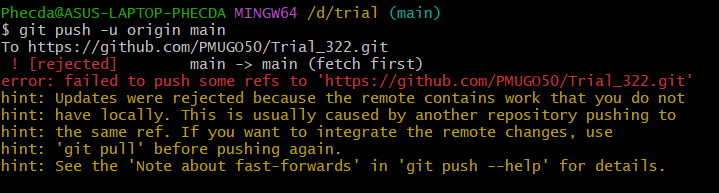
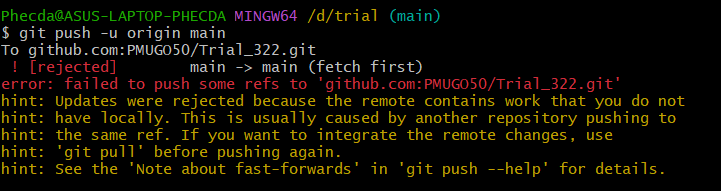
Site updated: 2024-03-23 16:38:50

Changed region(s): [[0.0, 0.0262, 0.9791, 0.9162]]

diff --git a/2024/03/22/githubset/index.html b/2024/03/22/githubset/index.html
@@ -40,7 +40,7 @@
 <meta property="og:image" content="https://pmugo50.github.io/2024/03/22/githubset/BASH_3.png">
 <meta property="og:image" content="https://pmugo50.github.io/2024/03/22/githubset/REPOS_AFTER.png">
 <meta property="article:published_time" content="2024-03-22T08:58:26.000Z">
-<meta property="article:modified_time" content="2024-03-22T10:58:29.921Z">
+<meta property="article:modified_time" content="2024-03-23T08:38:00.304Z">
 <meta property="article:author" content="PMUG050">
 <meta name="twitter:card" content="summary">
 <meta name="twitter:image" content="https://pmugo50.github.io/2024/03/22/githubset/RIGHT_SIDE_BAR.png">
@@ -195,10 +195,16 @@
                 <i class="far fa-calendar"></i>
               </span>
               <span class="post-meta-item-text">发表于</span>
-              
 
-              <time title="创建时间：2024-03-22 16:58:26 / 修改时间：18:58:29" itemprop="dateCreated datePublished" datetime="2024-03-22T16:58:26+08:00">2024-03-22</time>
+              <time title="创建时间：2024-03-22 16:58:26" itemprop="dateCreated datePublished" datetime="2024-03-22T16:58:26+08:00">2024-03-22</time>
             </span>
+              <span class="post-meta-item">
+                <span class="post-meta-item-icon">
+                  <i class="far fa-calendar-check"></i>
+                </span>
+                <span class="post-meta-item-text">更新于</span>
+                <time title="修改时间：2024-03-23 16:38:00" itemprop="dateModified" datetime="2024-03-23T16:38:00+08:00">2024-03-23</time>
+              </span>
             <span class="post-meta-item">
               <span class="post-meta-item-icon">
                 <i class="far fa-folder"></i>
@@ -247,14 +253,19 @@
 <figure class="highlight plaintext"><table><tr><td class="gutter"><pre><span class="line">1</span><br></pre></td><td class="code"><pre><span class="line">git init</span><br></pre></td></tr></table></figure>
 <p>初始化后文件夹中会出现一个 “.git” 文件夹，这个文件夹一般不要去动它。继续在 bash 中进行操作，创建 main 分支，现在 github 默认的分支从以前的 master 变为了 main ，为此在 bash 中输入</p>
 <figure class="highlight plaintext"><table><tr><td class="gutter"><pre><span class="line">1</span><br></pre></td><td class="code"><pre><span class="line">git branch -M main</span><br></pre></td></tr></table></figure>
-<p>然后还需要定义远程仓库的位置，这需要先点击 github 仓库的页面右上角的 “Code” ，会弹出一个小窗口，如下图。点击窗口里 url 右侧的那个复制按钮，将仓库的 url 复制下来</p>
+<p>然后还需要定义远程仓库的位置，这需要先点击 github 仓库的页面右上角的 “Code” ，会弹出一个小窗口，如下图。点击窗口里的 SSH 后再点 url 右侧的那个复制按钮，将仓库的 ssh url 复制下来</p>
 <p><img src="/2024/03/22/githubset/CODE_PAGE.png" alt="CODE_PAGE" width="100%"></p>
 <p>接着在 bash 中输入</p>
-<figure class="highlight plaintext"><table><tr><td class="gutter"><pre><span class="line">1</span><br></pre></td><td class="code"><pre><span class="line">git remote add origin url</span><br></pre></td></tr></table></figure>
-<p>origin 可以认为是本地对远程仓库的代称，最后的 url 即为要关联仓库的 url ，比如我应该键入的是</p>
-<figure class="highlight plaintext"><table><tr><td class="gutter"><pre><span class="line">1</span><br></pre></td><td class="code"><pre><span class="line">git remote add origin https://github.com/PMUGO50/Trial_322.git</span><br></pre></td></tr></table></figure>
+<figure class="highlight plaintext"><table><tr><td class="gutter"><pre><span class="line">1</span><br></pre></td><td class="code"><pre><span class="line">git remote add origin yoururl</span><br></pre></td></tr></table></figure>
+<p>origin 可以认为是本地对远程仓库的代称，最后的 yoururl 即为要关联仓库的 ssh url ，比如我应该键入的是</p>
+<figure class="highlight plaintext"><table><tr><td class="gutter"><pre><span class="line">1</span><br></pre></td><td class="code"><pre><span class="line">git remote add origin git@github.com:PMUGO50/Trial_322.git</span><br></pre></td></tr></table></figure>
 <p>这样仓库就关联完成了，整套关联过程执行下来的 bash 如下图</p>
 <p><img src="/2024/03/22/githubset/BASH_1.png" alt="BASH_1" width="100%"></p>
+<hr>
+<p>这里值得提的一点是正如上面的图所示，github 提供了 https 和 ssh 两种关联方式。采用 https 关联的话，在每次推送或者拉取时要通过账号密码进行登录，而 ssh 直接通过之前产生的密钥进行登录，更加安全也更加快捷</p>
+<p>然后就是，windows 上选 https 的话，在操作上和 ssh 也没有什么区别，不会出现账号密码登录的提示；但在 linux 上就会提示登录账号密码，并且输入完后还会报错，理由是该方法已经在 2021 年 8 月被弃用了</p>
+<p><strong>总之就是，采用 ssh 进行关联就好</strong></p>
+<hr>
 <h3 id="提交与推送"><a href="#提交与推送" class="headerlink" title="提交与推送"></a>提交与推送</h3><p>关联完成后就可以将本地的文件提交（ commit ）并推送（ push ）给远程仓库。首先在 bash 中输入</p>
 <figure class="highlight plaintext"><table><tr><td class="gutter"><pre><span class="line">1</span><br></pre></td><td class="code"><pre><span class="line">git add file</span><br></pre></td></tr></table></figure>
 <p>这里 file 是本次想提交的文件，比如 “main.py” ；如果希望对整个项目进行更新，就将 file 置为点号，它表示对所有更改过的文件都进行提交，即</p>
@@ -285,7 +296,7 @@
 <p><img src="/2024/03/22/githubset/REPOS_AFTER.png" alt="REPOS_AFTER" width="100%"></p>
 <h3 id="一些问题"><a href="#一些问题" class="headerlink" title="一些问题"></a>一些问题</h3><p>最后有一个问题就是拉取的时候采用 git pull 指令会直接将本地的同名文件用远程仓库内的内容覆盖掉，刚才没有出现这个情况的原因是远程仓库中没有 main.py 和 amod.py ，所以要格外注意 commit, pull, push 的顺序问题，在 commit 提交之后再 pull 就算覆盖了本地文件也没有问题，因为更改已经提交过了，只要推送出去就可以</p>
 <p>所以做一个小结的话，首次创建并关联时要依次输入的指令是</p>
-<figure class="highlight plaintext"><table><tr><td class="gutter"><pre><span class="line">1</span><br><span class="line">2</span><br><span class="line">3</span><br></pre></td><td class="code"><pre><span class="line">git init</span><br><span class="line">git branch -M main</span><br><span class="line">git remote add origin url</span><br></pre></td></tr></table></figure>
+<figure class="highlight plaintext"><table><tr><td class="gutter"><pre><span class="line">1</span><br><span class="line">2</span><br><span class="line">3</span><br></pre></td><td class="code"><pre><span class="line">git init</span><br><span class="line">git branch -M main</span><br><span class="line">git remote add origin yoururl</span><br></pre></td></tr></table></figure>
 <p>然后每次向远程仓库提交并推送时则是</p>
 <figure class="highlight plaintext"><table><tr><td class="gutter"><pre><span class="line">1</span><br><span class="line">2</span><br><span class="line">3</span><br><span class="line">4</span><br></pre></td><td class="code"><pre><span class="line">git add .</span><br><span class="line">git commit -m &quot;comment&quot;</span><br><span class="line">git pull origin main --allow-unrelated-histories</span><br><span class="line">git push origin main</span><br></pre></td></tr></table></figure>
 <p>不过尽管上述做法可以保证本地更改被推送到远程仓库，但还是没有办法避免本地代码被覆盖的问题，因为 pull 总还是被执行了。为了彻底避免 pull 覆盖本地文件的问题，可以参照这篇文章的内容：<a target="_blank" rel="noopener" href="https://blog.csdn.net/LiaoFengJi/article/details/104892687">https://blog.csdn.net/LiaoFengJi/article/details/104892687</a></p>

diff --git a/ihome/index.html b/ihome/index.html
@@ -373,10 +373,16 @@ mjx-container[display="true"] + br {
                 <i class="far fa-calendar"></i>
               </span>
               <span class="post-meta-item-text">发表于</span>
-              
 
-              <time title="创建时间：2024-03-22 16:58:26 / 修改时间：18:58:29" itemprop="dateCreated datePublished" datetime="2024-03-22T16:58:26+08:00">2024-03-22</time>
+              <time title="创建时间：2024-03-22 16:58:26" itemprop="dateCreated datePublished" datetime="2024-03-22T16:58:26+08:00">2024-03-22</time>
             </span>
+              <span class="post-meta-item">
+                <span class="post-meta-item-icon">
+                  <i class="far fa-calendar-check"></i>
+                </span>
+                <span class="post-meta-item-text">更新于</span>
+                <time title="修改时间：2024-03-23 16:38:00" itemprop="dateModified" datetime="2024-03-23T16:38:00+08:00">2024-03-23</time>
+              </span>
             <span class="post-meta-item">
               <span class="post-meta-item-icon">
                 <i class="far fa-folder"></i>

diff --git a/css/main.css b/css/main.css
@@ -1164,7 +1164,7 @@ pre .javascript .function {
 }
 .links-of-author a::before,
 .links-of-author span.exturl::before {
-  background: #e328ff;
+  background: #ff744d;
   border-radius: 50%;
   content: ' ';
   display: inline-block;
